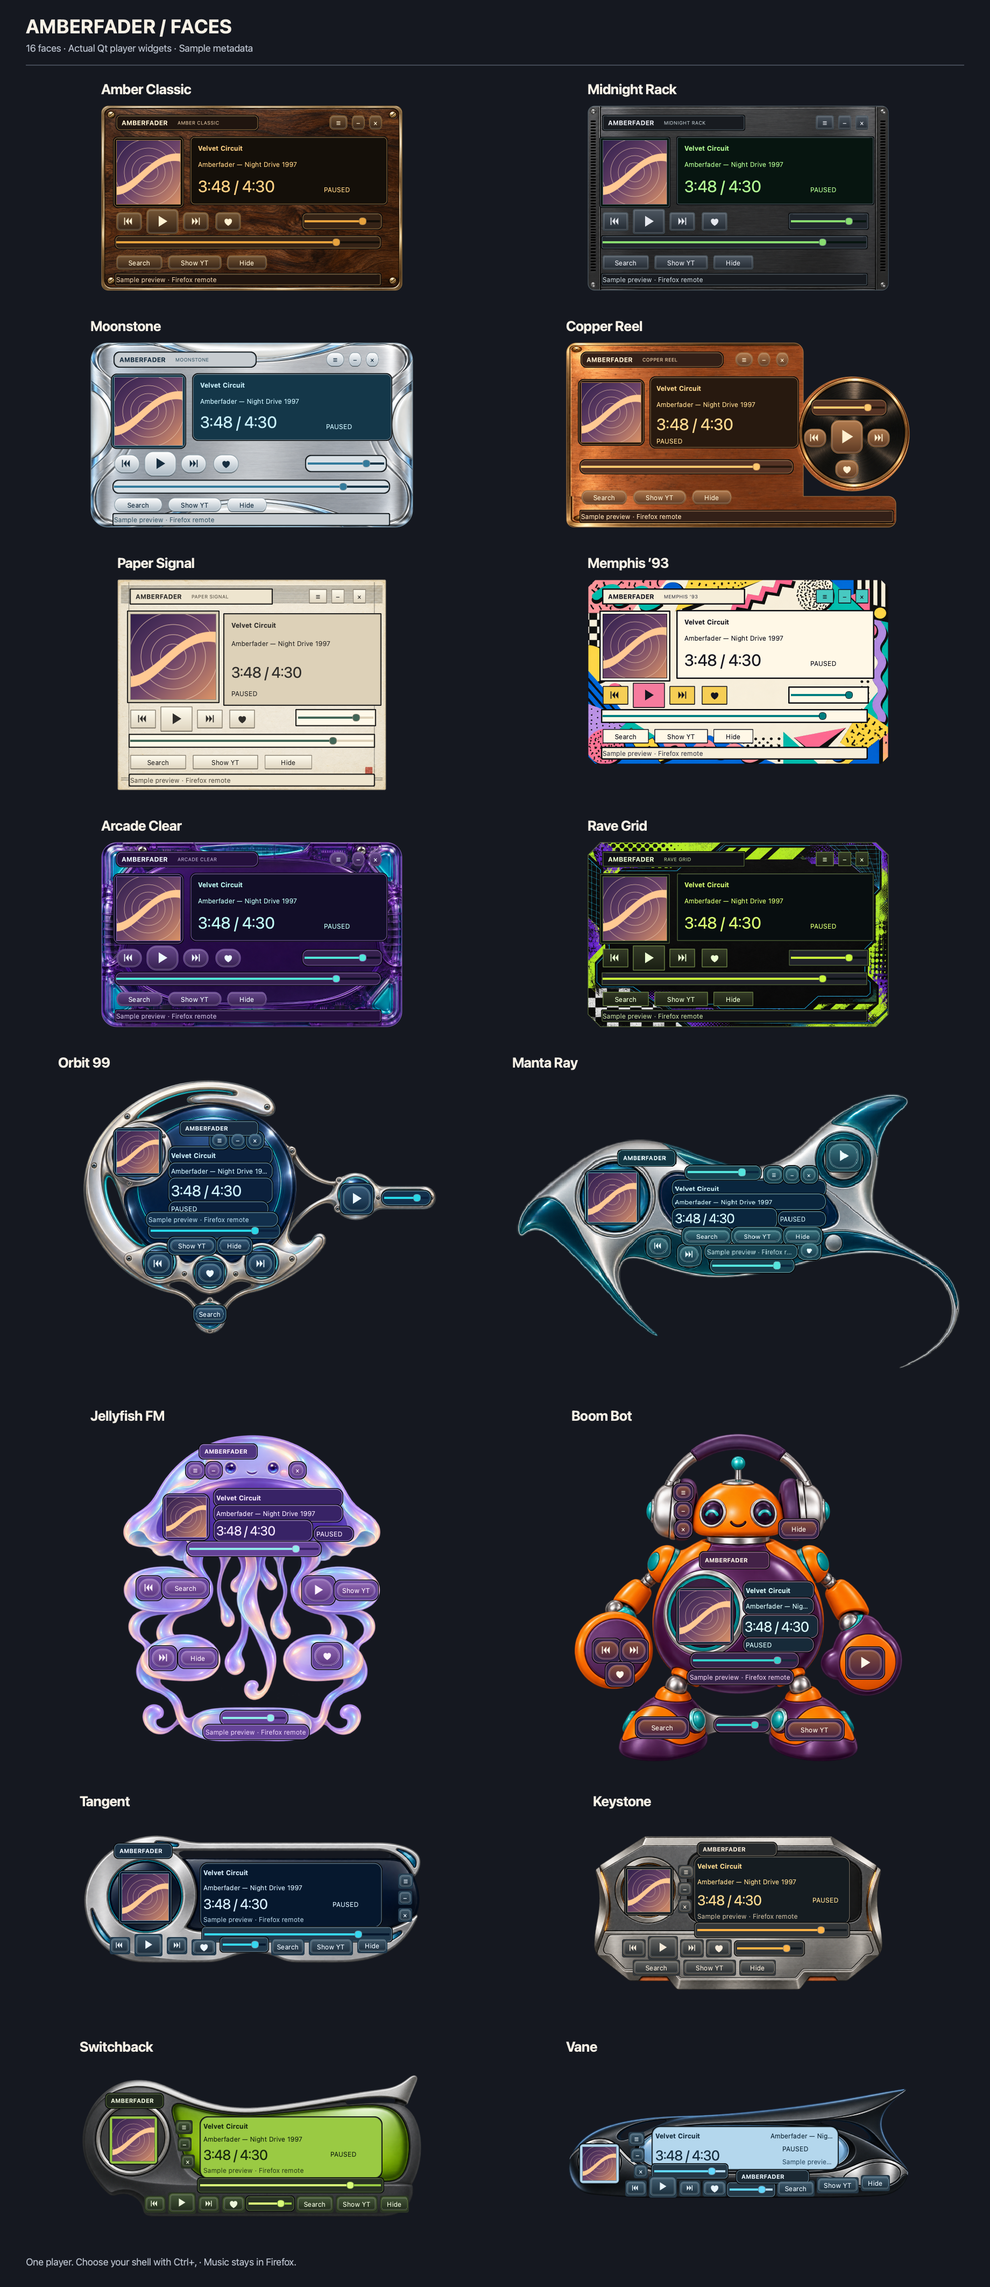
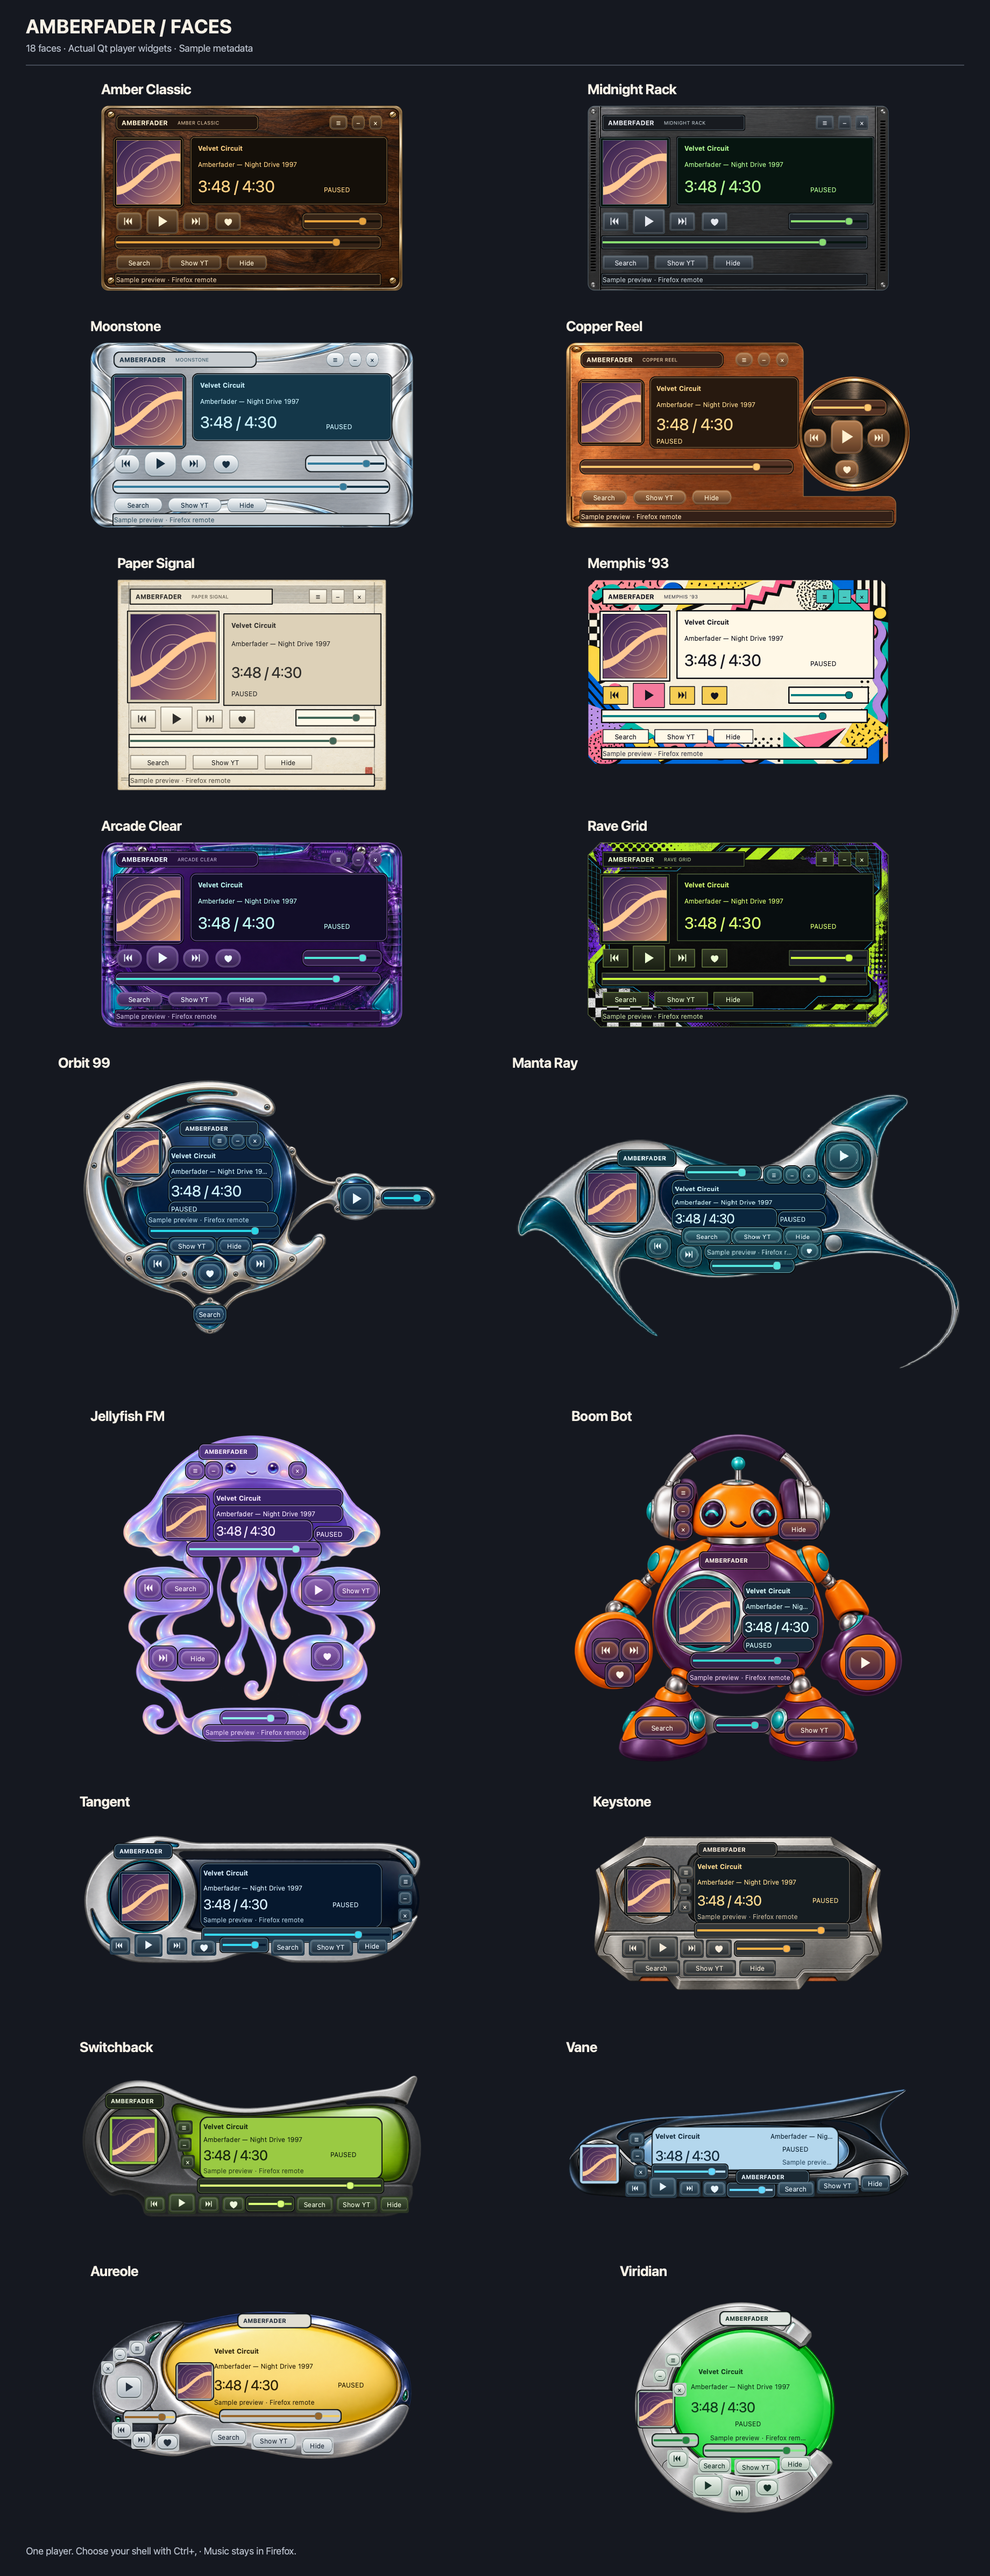
Add gold oval and green crescent faces (#22)
Introduce Aureole and Viridian as original interpretations of the
requested Audion references. Put host readouts directly on generated
glass and fit working controls to the curved transparent shells.

Record the generated sources and prompts, update the catalog previews,
and verify label contrast and shaped control masks at three scales.

diff --git a/native/tests/test_lens_faces.py b/native/tests/test_lens_faces.py
@@ -1,0 +1,91 @@
+"""Lens faces keep curved masks and readable text on their generated glass."""
+from pathlib import Path
+
+import pytest
+
+pytest.importorskip("PySide6.QtWidgets", exc_type=ImportError)
+
+from PySide6.QtCore import QRect, Qt
+from PySide6.QtGui import QColor, QImage, QRegion
+
+from amberfader.face_library import BUILTIN_DIRECTORY, load_face
+from amberfader.ui.face_surface import prepare_face
+
+LENS_IDS = ("aureole", "viridian")
+# Exterior regions beside the curved bodies, beyond ordinary corner cutouts.
+CONTOUR_PROBES = {
+    "aureole": ((485, 326, 24, 18), (560, 90, 16, 20)),
+    "viridian": ((65, 64, 18, 16), (392, 370, 18, 14)),
+}
+LINEAR_CHANNELS = tuple(
+    value / 255 / 12.92 if value / 255 <= 0.04045
+    else ((value / 255 + 0.055) / 1.055) ** 2.4
+    for value in range(256)
+)
+
+
+def _luminance(red, green, blue):
+    return (
+        LINEAR_CHANNELS[red] * 0.2126
+        + LINEAR_CHANNELS[green] * 0.7152
+        + LINEAR_CHANNELS[blue] * 0.0722
+    )
+
+
+def _minimum_contrast(foreground, image):
+    foreground = _luminance(foreground.red(), foreground.green(), foreground.blue())
+    rgba = image.convertToFormat(QImage.Format.Format_RGBA8888)
+    pixels = bytes(rgba.constBits())
+    backgrounds = (
+        _luminance(red, green, blue)
+        for red, green, blue in zip(pixels[0::4], pixels[1::4], pixels[2::4], strict=True)
+    )
+    return min(
+        (max(foreground, background) + 0.05) / (min(foreground, background) + 0.05)
+        for background in backgrounds
+    )
+
+
+@pytest.mark.parametrize("face_id", LENS_IDS)
+def test_lens_contours_preserve_controls_and_drag_at_exact_scales(qapp, face_id):
+    face = load_face(BUILTIN_DIRECTORY / face_id)
+    artwork = prepare_face(face)
+    for scale in (1.0, 1.5, 2.0):
+        size = tuple(round(value * scale) for value in face.size)
+        image = artwork.background.toImage().scaled(*size)
+        mask = artwork.scaled_mask(size)
+        for probe in CONTOUR_PROBES[face_id]:
+            rectangle = QRect(*(round(value * scale) for value in probe))
+            pixels = image.copy(rectangle).convertToFormat(QImage.Format.Format_RGBA8888)
+            assert max(bytes(pixels.constBits())[3::4]) == 0, (face_id, scale, probe)
+            assert QRegion(rectangle).intersected(mask).isEmpty(), (face_id, scale, probe)
+        for name, region in {**face.controls, "drag": face.drag}.items():
+            rectangle = QRect(*(round(value * scale) for value in region))
+            assert QRegion(rectangle).subtracted(mask).isEmpty(), (face_id, scale, name)
+
+
+@pytest.mark.parametrize("face_id", LENS_IDS)
+def test_unbacked_lens_labels_contrast_throughout_their_glass(qapp, face_id):
+    face = load_face(BUILTIN_DIRECTORY / face_id)
+    background = prepare_face(face).background.toImage()
+    source_path = Path(__file__).resolve().parents[2] / "artwork" / "generated" / f"{face_id}.png"
+    source = QImage(str(source_path))
+    assert not source.isNull()
+    source = source.scaled(
+        background.size(), Qt.AspectRatioMode.IgnoreAspectRatio,
+        Qt.TransformationMode.SmoothTransformation,
+    )
+    x_scale = background.width() / face.size[0]
+    y_scale = background.height() / face.size[1]
+    for name in ("title", "artists", "time", "playback", "status"):
+        interior = QRect(*face.controls[name]).adjusted(1, 1, -1, -1)
+        rectangle = QRect(
+            round(interior.x() * x_scale), round(interior.y() * y_scale),
+            round(interior.width() * x_scale), round(interior.height() * y_scale),
+        )
+        tokens = ("muted", "danger") if name == "status" else ("readout",)
+        for token in tokens:
+            foreground = QColor(face.palette[token])
+            for surface_name, image in (("source", source), ("background", background)):
+                contrast = _minimum_contrast(foreground, image.copy(rectangle))
+                assert contrast >= 4.5, (face_id, name, token, surface_name, contrast)

diff --git a/artwork/render_faces.py b/artwork/render_faces.py
@@ -46,6 +46,7 @@ BUTTON_GROUPS = {
 }
 SCULPTURAL_FACES = frozenset({"orbit-99", "manta-ray", "jellyfish-fm", "boom-bot"})
 UTILITARIAN_FACES = frozenset({"tangent", "keystone", "switchback", "vane"})
+LENS_FACES = frozenset({"aureole", "viridian"})
 READOUT_CONTROLS = frozenset({"title", "artists", "time", "playback", "status"})
 
 
@@ -196,16 +197,41 @@ def _render_utilitarian_background(face: dict, source: QImage) -> QImage:
     return image
 
 
+def _render_lens_background(face: dict, source: QImage) -> QImage:
+    """Keep the oval/circular glass intact, with host text directly on the lens."""
+    width, height = face["size"]
+    if source.width() * height != source.height() * width:
+        raise RuntimeError(f"{face['id']}: generated material does not match the canvas aspect")
+    image, painter = _canvas(width, height)
+    painter.drawImage(QRectF(0, 0, width, height), source)
+    palette = face["palette"]
+    for name, rectangle in face["controls"].items():
+        if name in READOUT_CONTROLS:
+            continue
+        if name in BUTTON_GROUPS:
+            painter.fillPath(_rounded(_surround(rectangle, 2), 4), QColor(palette["panel"]))
+            continue
+        _well(
+            painter, _surround(rectangle, 3), palette["panel"], palette["border"],
+            min(face["radius"], 8),
+        )
+    _draw_identification(painter, face)
+    painter.end()
+    return image
+
+
 def render_background(face: dict) -> QImage:
     width, height = face["size"]
     source = QImage(str(ROOT / "generated" / f"{face['id']}.png"))
     if source.isNull():
         raise RuntimeError(f"Missing generated material for {face['id']}")
-    if face["id"] in SCULPTURAL_FACES | UTILITARIAN_FACES:
+    if face["id"] in SCULPTURAL_FACES | UTILITARIAN_FACES | LENS_FACES:
         if not source.hasAlphaChannel():
             raise RuntimeError(f"{face['id']}: shaped material needs an alpha channel")
         if face["id"] in UTILITARIAN_FACES:
             return _render_utilitarian_background(face, source)
+        if face["id"] in LENS_FACES:
+            return _render_lens_background(face, source)
         return _render_sculptural_background(face, source)
     image, painter = _canvas(width, height)
     shape = _silhouette(face)
@@ -284,7 +310,7 @@ def render_button(face: dict, group: str, state: str) -> QImage:
         top, bottom, edge = bottom.darker(115), top.darker(115), QColor(p["accent"])
     elif state == "disabled":
         top, bottom = QColor(p["panel"]), QColor(p["window"])
-        if face["id"] in ("switchback", "vane"):
+        if face["id"] in ("switchback", "vane") or face["id"] in LENS_FACES:
             # These light readouts use dark muted labels, including disabled
             # host glyphs. Keep their matte button surface equally legible.
             top = bottom = QColor(p["display"])

diff --git a/artwork/preview_faces.py b/artwork/preview_faces.py
@@ -24,6 +24,7 @@ FACE_ORDER = (
     "memphis-93", "arcade-clear", "rave-grid",
     "orbit-99", "manta-ray", "jellyfish-fm", "boom-bot",
     "tangent", "keystone", "switchback", "vane",
+    "aureole", "viridian",
 )
 PREVIEW_DIRECTORY = ROOT / "build" / "face-previews"
 MARGIN = 48

diff --git a/native/tests/test_faces.py b/native/tests/test_faces.py
@@ -24,6 +24,7 @@ BUNDLED_IDS = {
     "memphis-93", "arcade-clear", "rave-grid",
     "orbit-99", "manta-ray", "jellyfish-fm", "boom-bot",
     "tangent", "keystone", "switchback", "vane",
+    "aureole", "viridian",
 }
 
 

diff --git a/docs/faces.md b/docs/faces.md
@@ -11,7 +11,7 @@ choose **Cover view** from the menu, for a larger artwork window.
 
 ## Included faces
 
-![Sixteen player faces rendered with sample metadata](faces-preview.png)
+![Eighteen player faces rendered with sample metadata](faces-preview.png)
 
 | Face | Character |
 | --- | --- |
@@ -31,6 +31,8 @@ choose **Cover view** from the menu, for a larger artwork window.
 | Keystone | A clipped steel badge with an amber display |
 | Switchback | A swept graphite shell with lime accents and an LCD |
 | Vane | A dark aerodynamic fin with ice blue glass |
+| Aureole | A gold oval display in a silver and navy shell |
+| Viridian | A green round lens framed by a silver crescent |
 
 The four experimental sculptural faces place the player controls in curved
 instruments and characters, with transparent gaps between parts of the shell.
@@ -41,6 +43,11 @@ Tangent, Keystone, Switchback and Vane use compact abstract instrument forms,
 with shaped metal and plastic shells around the readout and controls.
 
 ![Four utilitarian player faces rendered with sample metadata](faces-utilitarian-preview.png)
+
+Aureole and Viridian place oval and round glass displays inside curved silver
+shells, with gold, navy and green instrument materials.
+
+![Two lens player faces rendered with sample metadata](faces-lens-preview.png)
 
 These are original designs inspired by [Audion Faces](https://panic.com/blog/facing-forward/),
 SoundJam MP, and late-1990s desktop players. They do not contain those apps'
@@ -168,7 +175,7 @@ versions can add presentation features without giving plugins player access.
 
 ## Artwork source and verification
 
-The sixteen original artworks were generated with OpenAI’s built-in image
+The eighteen original artworks were generated with OpenAI’s built-in image
 generator. The source PNGs live in [`artwork/generated`](../artwork/generated);
 the exact generation and edit prompts are recorded in
 [`artwork/face-prompts.json`](../artwork/face-prompts.json). The sources are
@@ -190,6 +197,8 @@ QT_QPA_PLATFORM=offscreen uv run python artwork/preview_faces.py \
 QT_QPA_PLATFORM=offscreen uv run python artwork/preview_faces.py \
   --face tangent --face keystone --face switchback --face vane \
   --output docs/faces-utilitarian-preview.png
+QT_QPA_PLATFORM=offscreen uv run python artwork/preview_faces.py \
+  --face aureole --face viridian --output docs/faces-lens-preview.png
 ```
 
 The preview script renders the actual player widgets with synthetic metadata,

diff --git a/README.md b/README.md
@@ -74,13 +74,14 @@ Restart the browser and desktop app after updating.
 
 ## Linux Faces
 
-In the native app, choose **☰ → Faces…** or press **Ctrl+,**. Sixteen original
+In the native app, choose **☰ → Faces…** or press **Ctrl+,**. Eighteen original
 retro faces change the player's shape, layout and textures while keeping
 artwork, likes, playback, search, recents and mixes. Your choice is saved locally.
 Four of them are experimental sculptural faces: an orbital instrument, a manta ray,
 a jellyfish and a headphone robot with transparent gaps around their controls.
 Tangent, Keystone, Switchback and Vane add compact abstract instrument forms
 in steel, navy glass, graphite and lime.
+Aureole and Viridian add gold and green glass displays framed by silver curves.
 Click the cover for **Cover view**.
 
 Install additional JSON/PNG face plugins with **Install face folder…**.
